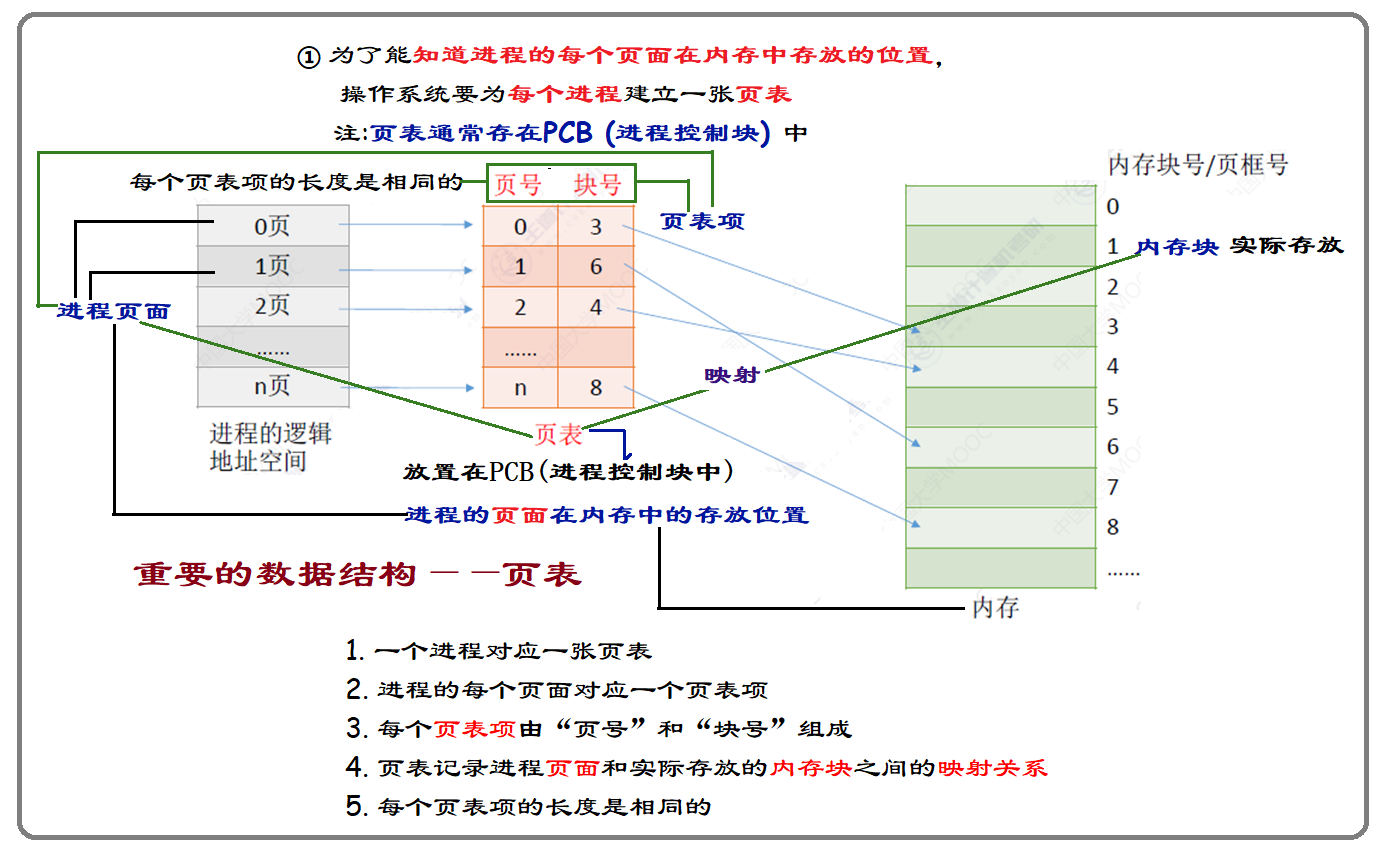
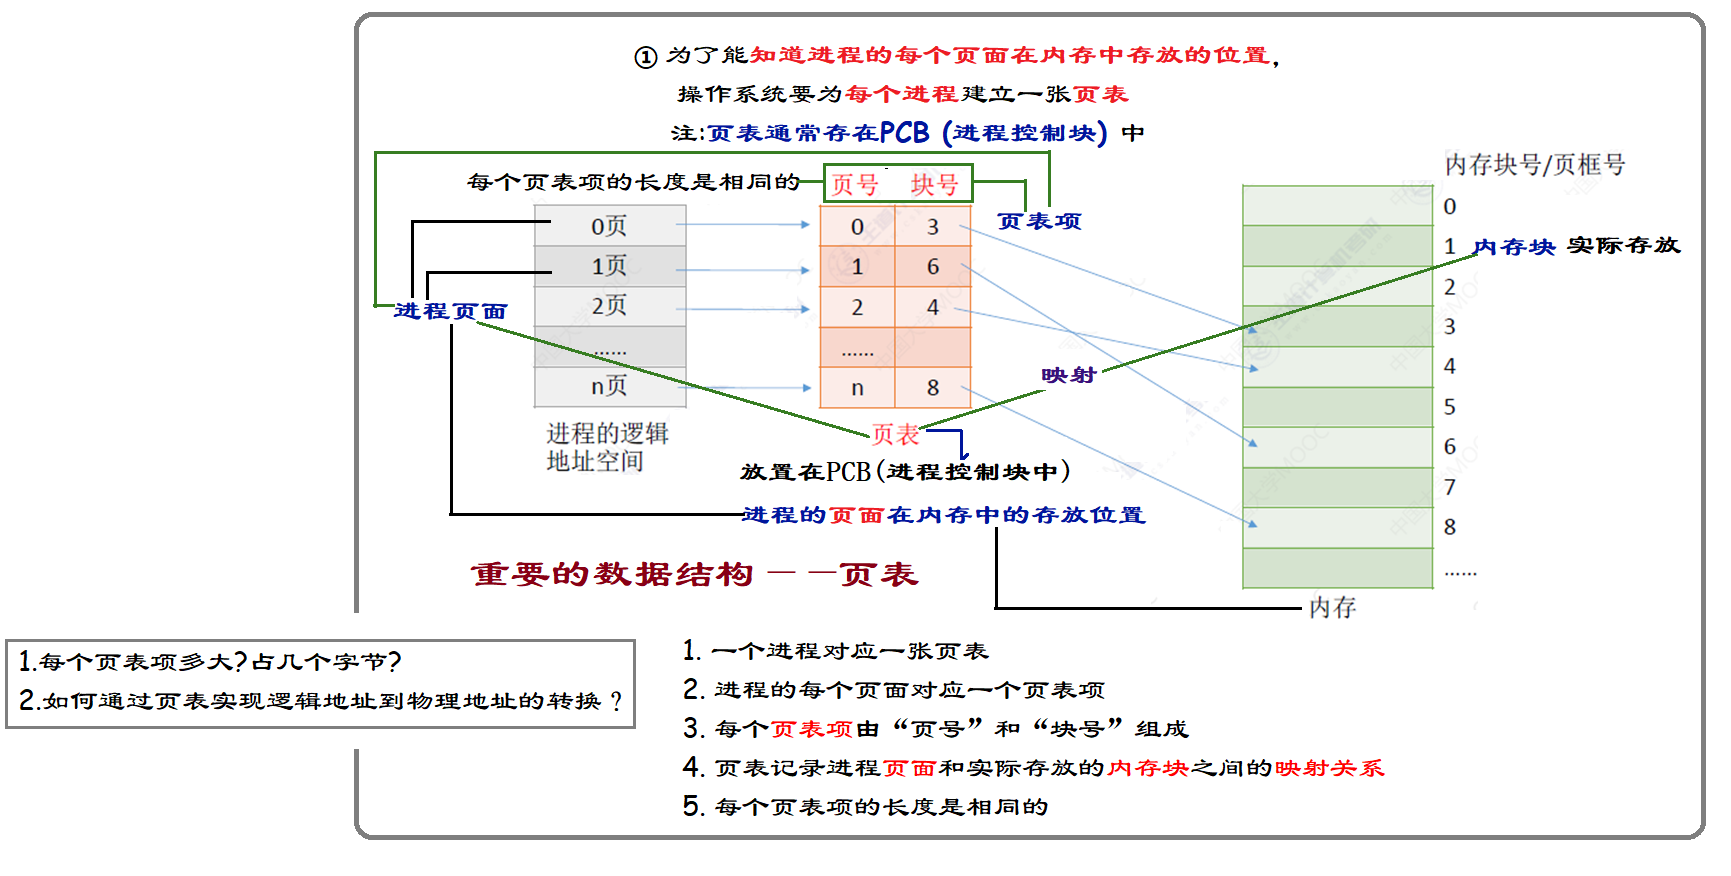
20230724

Changed region(s): [[0.0, 0.0, 0.9885, 1.0], [0.1853, 0.8808, 0.2162, 0.9416]]

diff --git a/02 Operating System/01 王道课件/03 第三章 内存管理/01 内存管理概念/06 基本分页存储管理的基本概念/01 Note.md b/02 Operating System/01 王道课件/03 第三章 内存管理/01 内存管理概念/06 基本分页存储管理的基本概念/01 Note.md
@@ -6,20 +6,58 @@
 
 <img src="https://cvp.oss-cn-shanghai.aliyuncs.com/picgo/202307211445531.png" alt="image-20230721144544396" style="zoom:50%;" />
 
-# 什么是“地址空间”
+
+
+# 1 什么是“地址空间”
 
 <img src="https://cvp.oss-cn-shanghai.aliyuncs.com/picgo/202307211457892.png" alt="image-20230721145730731" style="zoom:50%;" /> 
 
-# 什么是分页存储
+
+
+# 2 什么是分页存储
 
 <img src="https://cvp.oss-cn-shanghai.aliyuncs.com/picgo/202307241021634.png" alt="image-20230724102130412" style="zoom: 50%;" />
 
 
 
-# 重要的数据结构——页表
+# 3 重要的数据结构——页表
 
-<img src="https://cvp.oss-cn-shanghai.aliyuncs.com/picgo/202307241019320.png" alt="image-20230724101953151" style="zoom: 50%;" />
+![image-20230724102700600](https://cvp.oss-cn-shanghai.aliyuncs.com/picgo/202307241027803.png)
 
 
 
-# 
+## 3.1 问题一 每个页表项占多少字节?
+
+![](https://cvp.oss-cn-shanghai.aliyuncs.com/picgo/202307241125037.png)
+
+
+
+## 3.2 问题二: 如何实现地址的转换
+
+![image-20230724121500790](https://cvp.oss-cn-shanghai.aliyuncs.com/picgo/202307241215951.png)
+
+
+
+### 3.2.1 子问题: 如何确定一个逻辑地址对应的页号、页内偏移量?
+
+![image-20230724143903048](https://cvp.oss-cn-shanghai.aliyuncs.com/picgo/202307241439278.png)
+
+![image-20230724145453541](https://cvp.oss-cn-shanghai.aliyuncs.com/picgo/202307241454695.png)
+
+
+
+## 3.3 子问题：为何页面大小要取2的整数幂？
+
+![image-20230724151024792](https://cvp.oss-cn-shanghai.aliyuncs.com/picgo/202307241510969.png)
+
+
+
+# 4 逻辑地址结构
+
+![image-20230724152233406](https://cvp.oss-cn-shanghai.aliyuncs.com/picgo/202307241522573.png)
+
+
+
+# 5 知识回顾与重要考点
+
+![image-20230724153700844](https://cvp.oss-cn-shanghai.aliyuncs.com/picgo/202307241537944.png)

diff --git a/02 Operating System/01 王道课件/03 第三章 内存管理/01 内存管理概念/07 基本地址变换机构/01 Note.md b/02 Operating System/01 王道课件/03 第三章 内存管理/01 内存管理概念/07 基本地址变换机构/01 Note.md
@@ -1,0 +1,12 @@
+# 基本变换机构
+
+
+
+# 知识总览
+
+<img src="https://cvp.oss-cn-shanghai.aliyuncs.com/picgo/202307241547129.png" alt="image-20230724154753050" style="zoom:50%;" />
+
+
+
+# 基本地址变换机构
+
